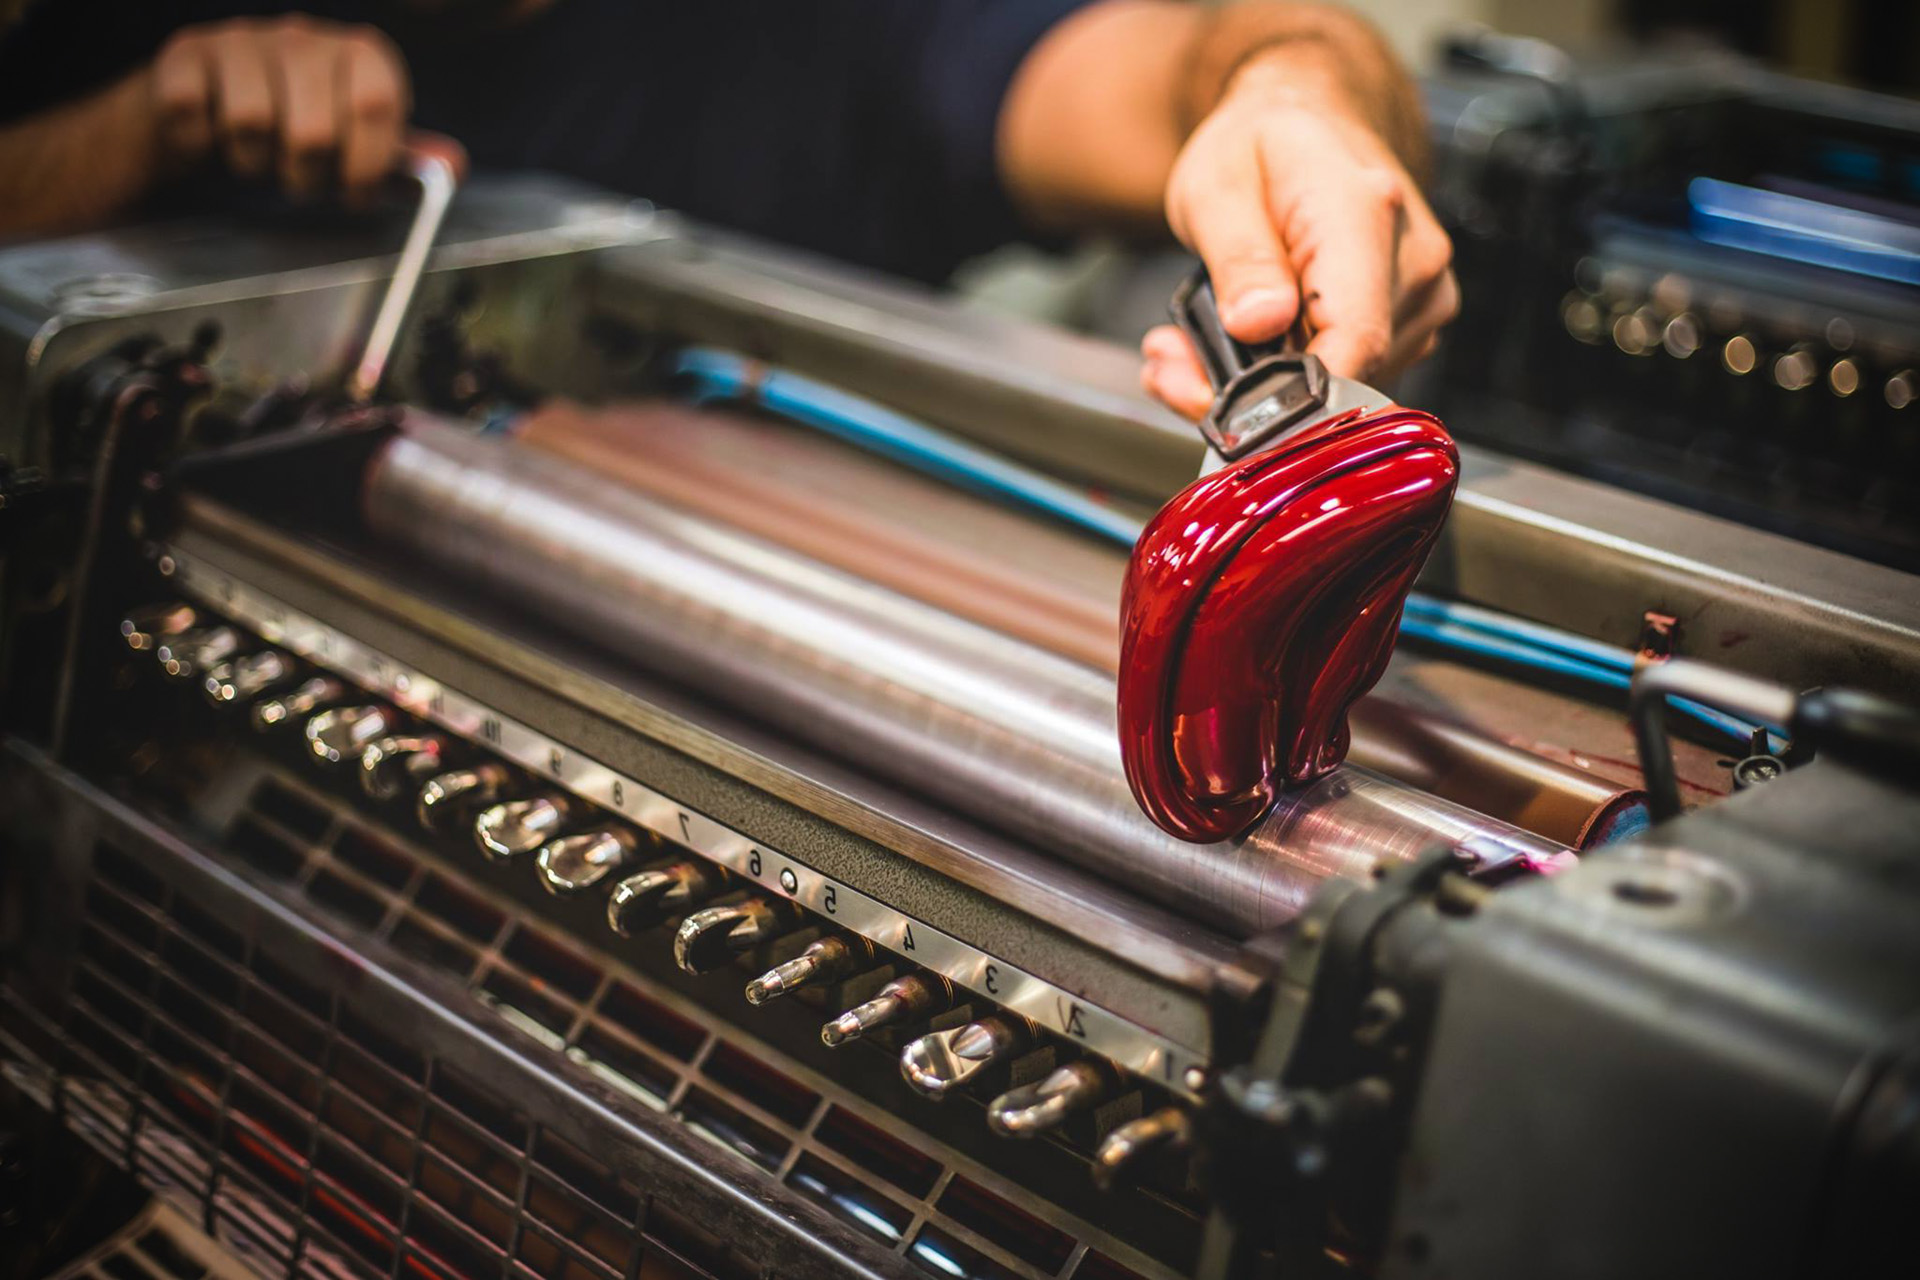
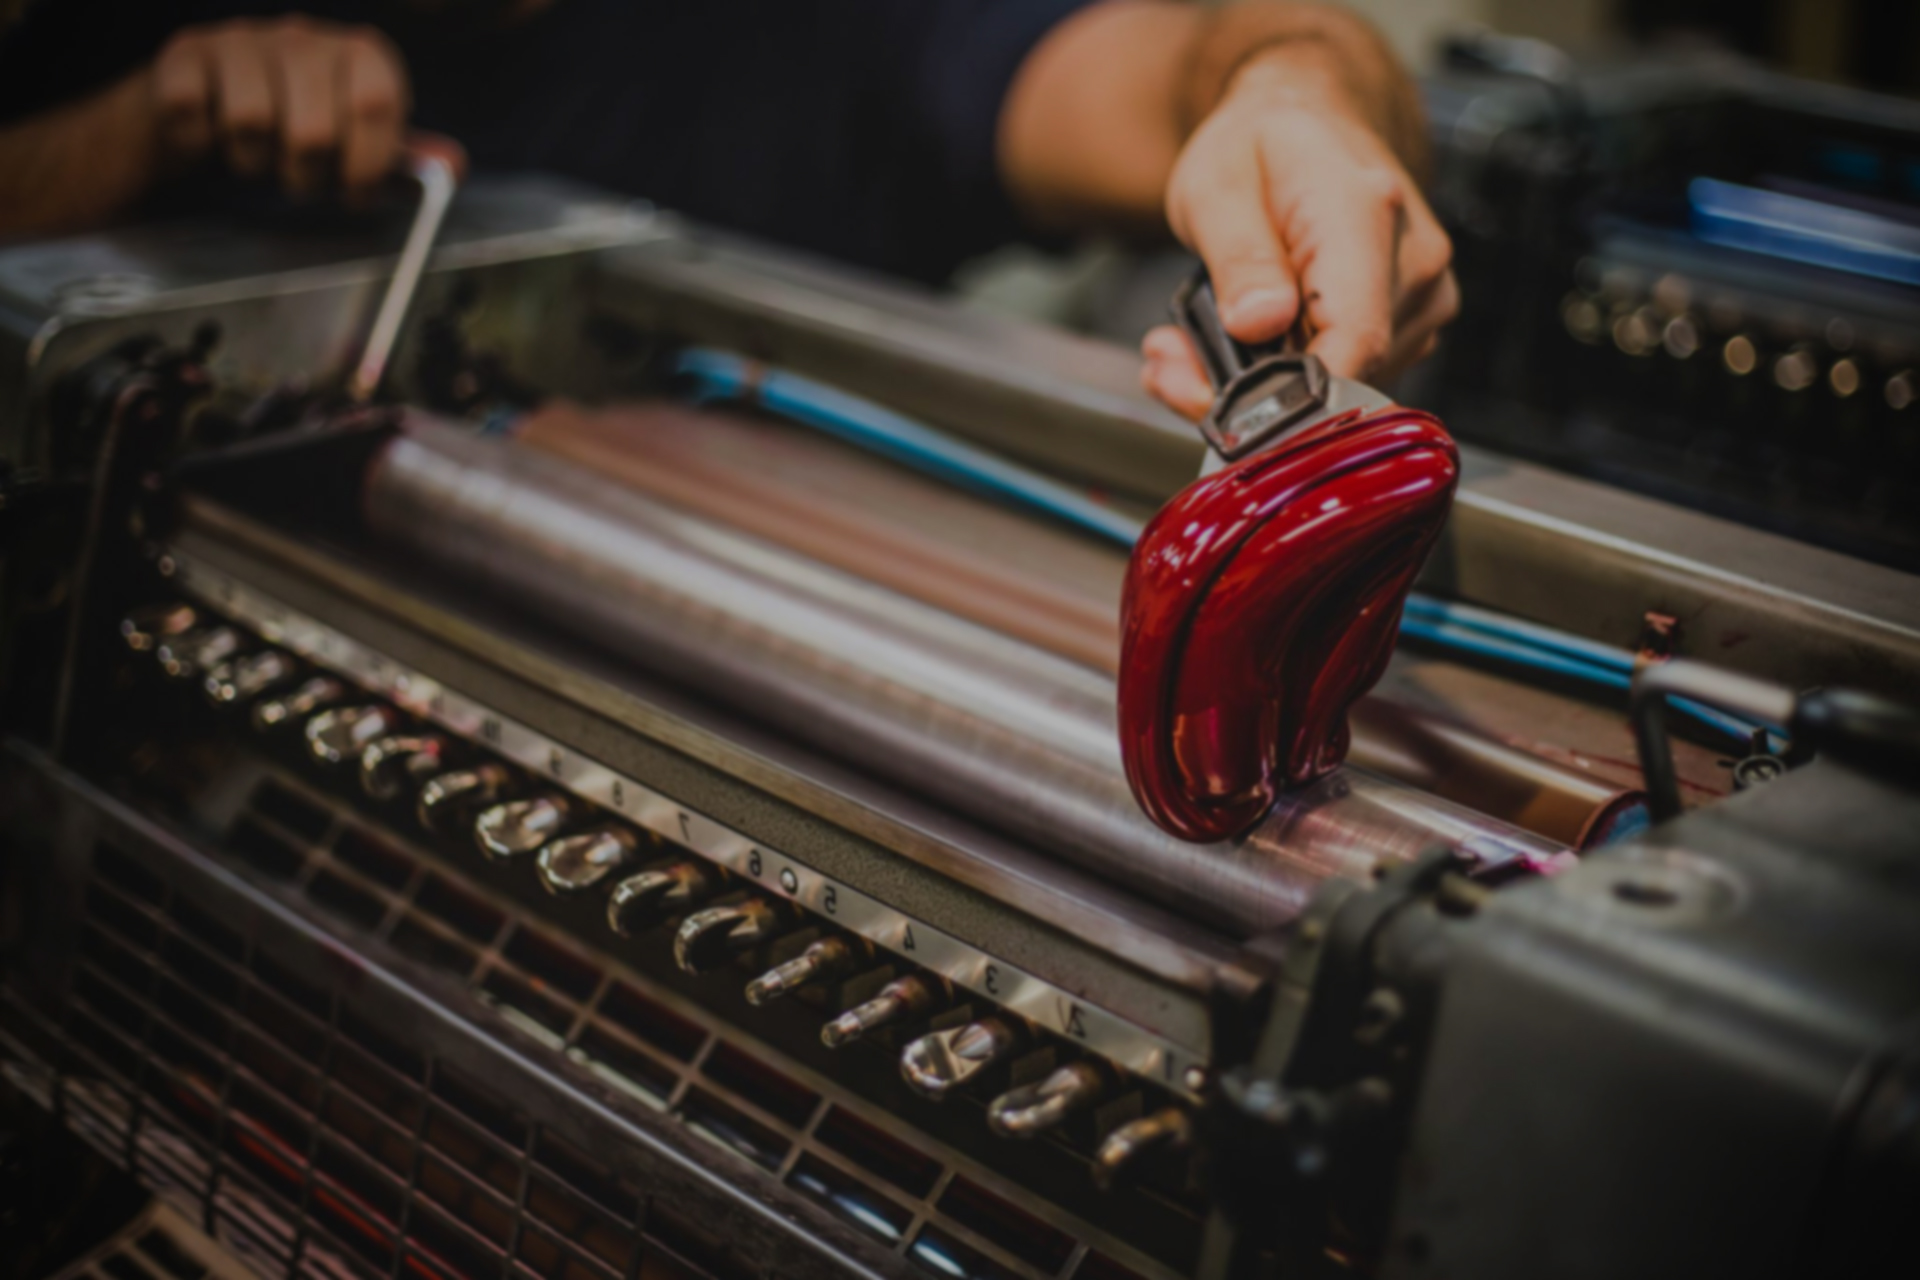
Se agregan imágenes de fondo de Secciones. Se cambia el GRID de la section products por Flexbox. Correcciones espacios Script menu

diff --git a/public/stylesheets/style.css b/public/stylesheets/style.css
@@ -256,90 +256,81 @@ html,body{overflow-x:hidden !important}
     }
     
     .main-cards-container{
-      
+      display: flex;
+      flex-direction: column;
       margin: 0 auto;
       min-width: 320px;
       width: 100%;
       text-align: center;
-
     }
     
       .main-cards-container .main-card-content {
-        /* width: 100%;
-        display: flex;
-        flex-wrap: 1; */
-         /*  margin-top: 1.5rem; */
-          display: grid;
-          justify-content: center;
-          grid-template-columns: repeat(1, 100%);
-          grid-template-rows: repeat(4, auto);
-          grid-gap: 33vh;
+          width: 100%;
       }
     
-        .main-cards-container .main-card-content .card {
-          
-           /* background-color: black;
-           background: url("/images/product1.jpg");
-          background-position: cover; */
-          /*  overflow: hidden; */
+
+      .main-cards-container .main-card-content .product-flex{
+          display: flex;
+          flex-direction: column;
+          width: 100%;
+      }
+        .main-cards-container .product-flex .card {
           position: relative;
-          width: 100%;
-          cursor: pointer;
-          margin-bottom: 1rem;
-           /* height: 0;
-           padding-top: 56.25%;  */
-          
+          margin-bottom: 2rem;
         }
-    
-        .main-cards-container .main-card-content .card img{
+
+        .main-cards-container .product-flex .card img{
           opacity: 1;
-          display: block;
           width: 100%;
-          height: auto;
           transition: .3s linear;
           backface-visibility: hidden;
-          position: absolute;
-          top: 0;
-          left: 0;
         }
     
-        .main-cards-container .main-card-content .card .info-product{
+        .main-cards-container .product-flex .card .info-product{
           width: 100%;
           transition: 1.5s ease-in;
           opacity: 0;
           position: absolute;
-          top: 2rem;
-          left: 50%;
-          transform: translate(-50%, -50%);
-          -ms-transform: translate(-50%, -50%);
+          top: 0;
+          left: 0;
+          margin-top: .3rem;
           text-align: center;
         }
     
-        .main-card-content .card .arrow-container-product {
+        .product-flex .card .arrow-container-product {
           
           width: 100%;
           height: auto;
           position: absolute;
           opacity: 1;
           transition: 1s ease-in-out;  
-          top: 25vh;
+          bottom: 0;
         }
         
-          .main-card-content .card .arrow-container-product i{
+          .product-flex .card .arrow-container-product i{
               font-size: 2.5rem;
               color: #2a2a2a;
             }
     
     
     .card .info-product .text-product {
+         display: flex;
+         flex-direction: column;
          width: 100%;
+         margin-top: .5rem;
         }
     
+
+        .card .info-product .text-product span:first-child {
+          color: black;
+          font-weight: bold;
+          font-size: 1rem;
+          padding: .2rem;
+      }
         .card .info-product .text-product span {
             color: black;
-            font-weight: bold;
-            font-size: 1rem;
-            padding: .5rem;
+            font-size: .8rem;
+            padding: .2rem;
         }
     
     
@@ -819,11 +810,13 @@ html,body{overflow-x:hidden !important}
   /* MAIN BANNER First Section #1 */
 
   .main-banner{
-    background: url("/images/home1.jpg");
+    background-image: url("/images/home1.jpg");
     background-size: auto ;
+    /* filter: grayscale(10%); */
+
     /* background-color: rgb(22, 26, 26); */
   }
-
+  
   .main-banner .info-btn-arrow-container{
     height: 88vh;
   }
@@ -846,6 +839,14 @@ html,body{overflow-x:hidden !important}
     color: whitesmoke;
     font-size: 1.3rem;
   }
+  .main-banner .info-btn-arrow-container .info-container span.title-main{
+    text-align: left;
+    color: whitesmoke;
+    font-size: 3rem;
+    margin-bottom: .5rem;
+  }
+
+
 
 
 .main-banner .info-btn-arrow-container .btn-container{
@@ -872,112 +873,100 @@ html,body{overflow-x:hidden !important}
 
 /* MAIN Second Section #2 */
 
-
 .back-products{
-  background-color: rgba(0, 0, 0, 0.35);
-  margin-bottom: 20vh;
-  padding-top: 0;
-  margin-top: 0;
+  background-color: #2a2a2a;
+  height: 100vh;
+  margin-bottom: 0vh;
+  padding-top: 0vh;
+  margin-top: 0vh;
 }
 
 .main-cards-container{
-  
-  margin: 0 auto;
-  height: 100vh;
-  max-width: 1024px;
-  width: 75%;
+  display: flex;
+  flex-direction: column;
+  justify-content: center;
+  align-items: center;
+  width: 100%;
   text-align: center;
-  margin-bottom: -18vh;
-  
 }
 
-  .main-cards-container .main-card-content {
-    /* width: 100%;
+  .main-cards-container .main-card-content .product-flex{
     display: flex;
-    flex-wrap: 1; */
-    margin-top: 2rem;
-    display: grid;
+    flex-direction: row;
+    flex-wrap: wrap;
+    width: 80%;
+    margin: 0 auto;
     justify-content: center;
-    grid-template-columns: repeat(2, 50%);
-    grid-template-rows: repeat(2, 50%);
-    grid-gap: 14rem 2rem;
-      
-
   }
 
-    .main-cards-container .main-card-content .card {
-      
-       /* background-color: black;
-       background: url("/images/product1.jpg");
-      background-position: cover; */
-      /*  overflow: hidden; */
+    .main-cards-container .product-flex .card {
       position: relative;
-      width: 100%;
-      cursor: pointer;
-       /* height: 0;
-       padding-top: 56.25%;  */
-      
+      margin-bottom: 2rem;
+      width: 35%;
+      margin: 0 1rem 3rem
     }
 
-    .main-cards-container .main-card-content .card img{
+    .main-cards-container .product-flex .card img{
       opacity: 1;
-      display: block;
       width: 100%;
-      height: auto;
-      transition: .3s linear;
+      transition: .5s linear;
       backface-visibility: hidden;
+    }
+
+    .main-cards-container .product-flex .card .info-product{
+      width: 100%;
+      transition: 1s ease-in-out;
+      opacity: 0;
       position: absolute;
       top: 0;
       left: 0;
-    }
-
-    .main-cards-container .main-card-content .card .info-product{
-      width: 100%;
-      transition: 1.5s ease-in;
-      opacity: 0;
-      position: absolute;
-      top: 25%;
-      left: 50%;
-      transform: translate(-50%, -50%);
-      -ms-transform: translate(-50%, -50%);
+      margin-top: .3rem;
       text-align: center;
     }
 
-    .main-card-content .card .arrow-container-product {
-      z-index: 999;
+    .product-flex .card .arrow-container-product {
       width: 100%;
-      height: 50px;
+      height: auto;
       position: absolute;
-      top: 15rem;
       opacity: 0;
-      transition: 1s ease-in-out;
+      transition: .5s ease-in-out;  
+      bottom: 0;
     }
     
-      .main-card-content .card .arrow-container-product i{
+      .product-flex .card .arrow-container-product i{
           font-size: 2.5rem;
-          color: black;
+          color: #2a2a2a;
+          margin-bottom: .5rem;
         }
 
 
 .card .info-product .text-product {
+     display: flex;
+     flex-direction: column;
      width: 100%;
+     margin-top: .5rem;
     }
 
+
+    .card .info-product .text-product span:first-child {
+      color: whitesmoke;
+      font-weight: bold;
+      font-size: 1.5rem;
+      padding: .2rem;
+  }
     .card .info-product .text-product span {
-        color: black;
-        font-weight: bold;
+        color: whitesmoke;
         font-size: 1rem;
-        padding: .5rem;
+        padding: .2rem;
     }
 
 
-
-    
     .product-title {
       margin: 0 auto;
       max-width: 1024px;
       text-align: center;
       padding-top: 5vh;
+      margin-bottom: 5vh;
     }
 
     .product-title span{
@@ -994,22 +983,35 @@ html,body{overflow-x:hidden !important}
   max-width: 1024px;
   text-align: center;
   padding: 0 .5rem;
+
+}
+
+.back-about-us{
+
+  width: 100%;
+  background-image: url("/images/about-us.jpg");
+  background-size: cover;
+
 }
 
 .info-us-container span{
   font-size: 1.5rem;
+  color: whitesmoke;
+
 }
 
 .info-us-container .title-about-us{
   text-align: center;
   margin-bottom: 2rem;
-  padding-top: 1rem;
+  padding-top: 4rem;
+  color: whitesmoke;
 }
 
 .info-us-container .title-about-us span{
   font-size: 2rem;
   font-weight: bold;
   padding: .5rem;
+  color: whitesmoke;
 }
 
 /* MAIN Fourth Section #4 */
@@ -1021,7 +1023,7 @@ html,body{overflow-x:hidden !important}
   padding-top: 4rem;
   margin-top: 0vh;
   margin-bottom: 0vh;
-  background-color: rgba(0, 0, 0, 0.35);
+  background-color: #2a2a2a;
 
 }
 
@@ -1103,8 +1105,8 @@ html,body{overflow-x:hidden !important}
   padding-bottom: 0vh;
   text-align: center;
   /* background-color: lightskyblue; */
-  background: url("/images/back-form.jpg");
-  background-size: auto;
+  background-image: url("/images/back-form.jpg");
+  background-size: cover;
 }
 
   .contact-container span{

diff --git a/public/javascripts/script-menu.js b/public/javascripts/script-menu.js
@@ -29,7 +29,6 @@ btn.addEventListener("click", function(e){
 
 let itemsMenuMobile = document.getElementsByClassName("item-menu-mobile");
 
-console.log(itemsMenuMobile);
 
 Array.prototype.forEach.call(itemsMenuMobile, (item)=>{
 
@@ -41,19 +40,6 @@ Array.prototype.forEach.call(itemsMenuMobile, (item)=>{
     });
 
 })
-
-/* itemsMenuMobile.forEach(item => {
-    
-    item.addEventListener("click", function(){
-
-        menu.style.top = "-100vh"
-
-    })
-
-}); */
-
-
-
 
 // product #1
 
